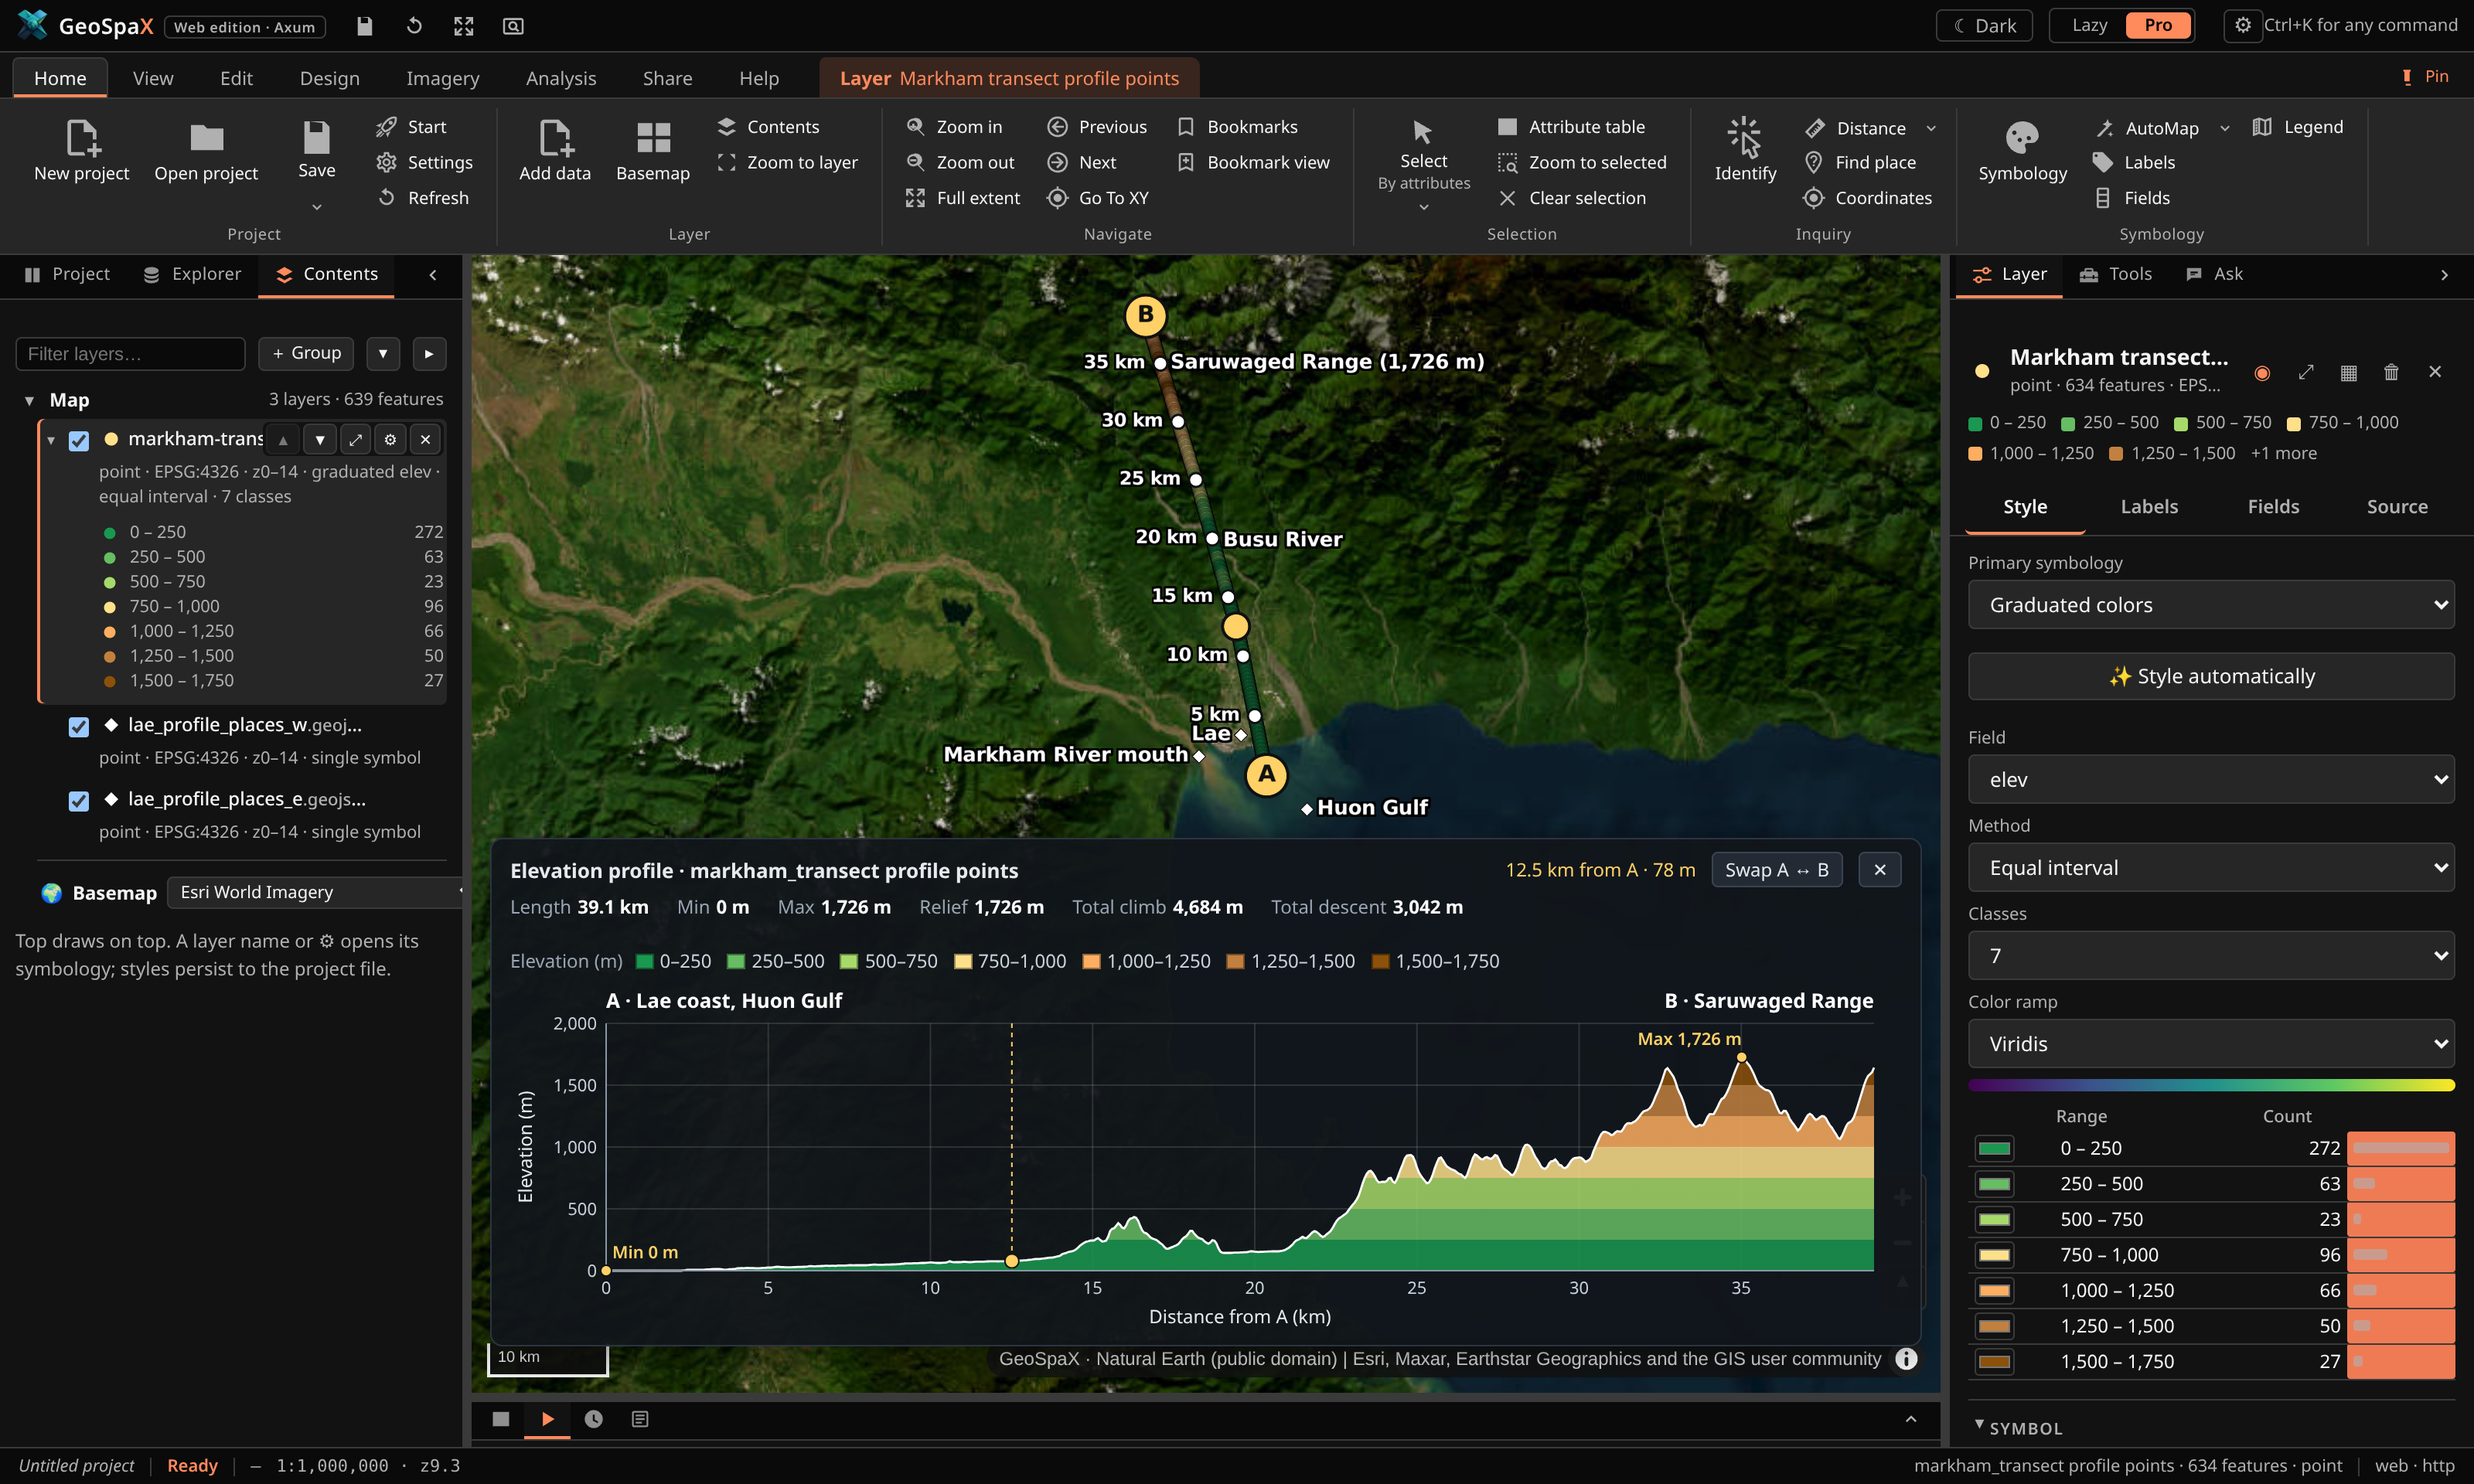
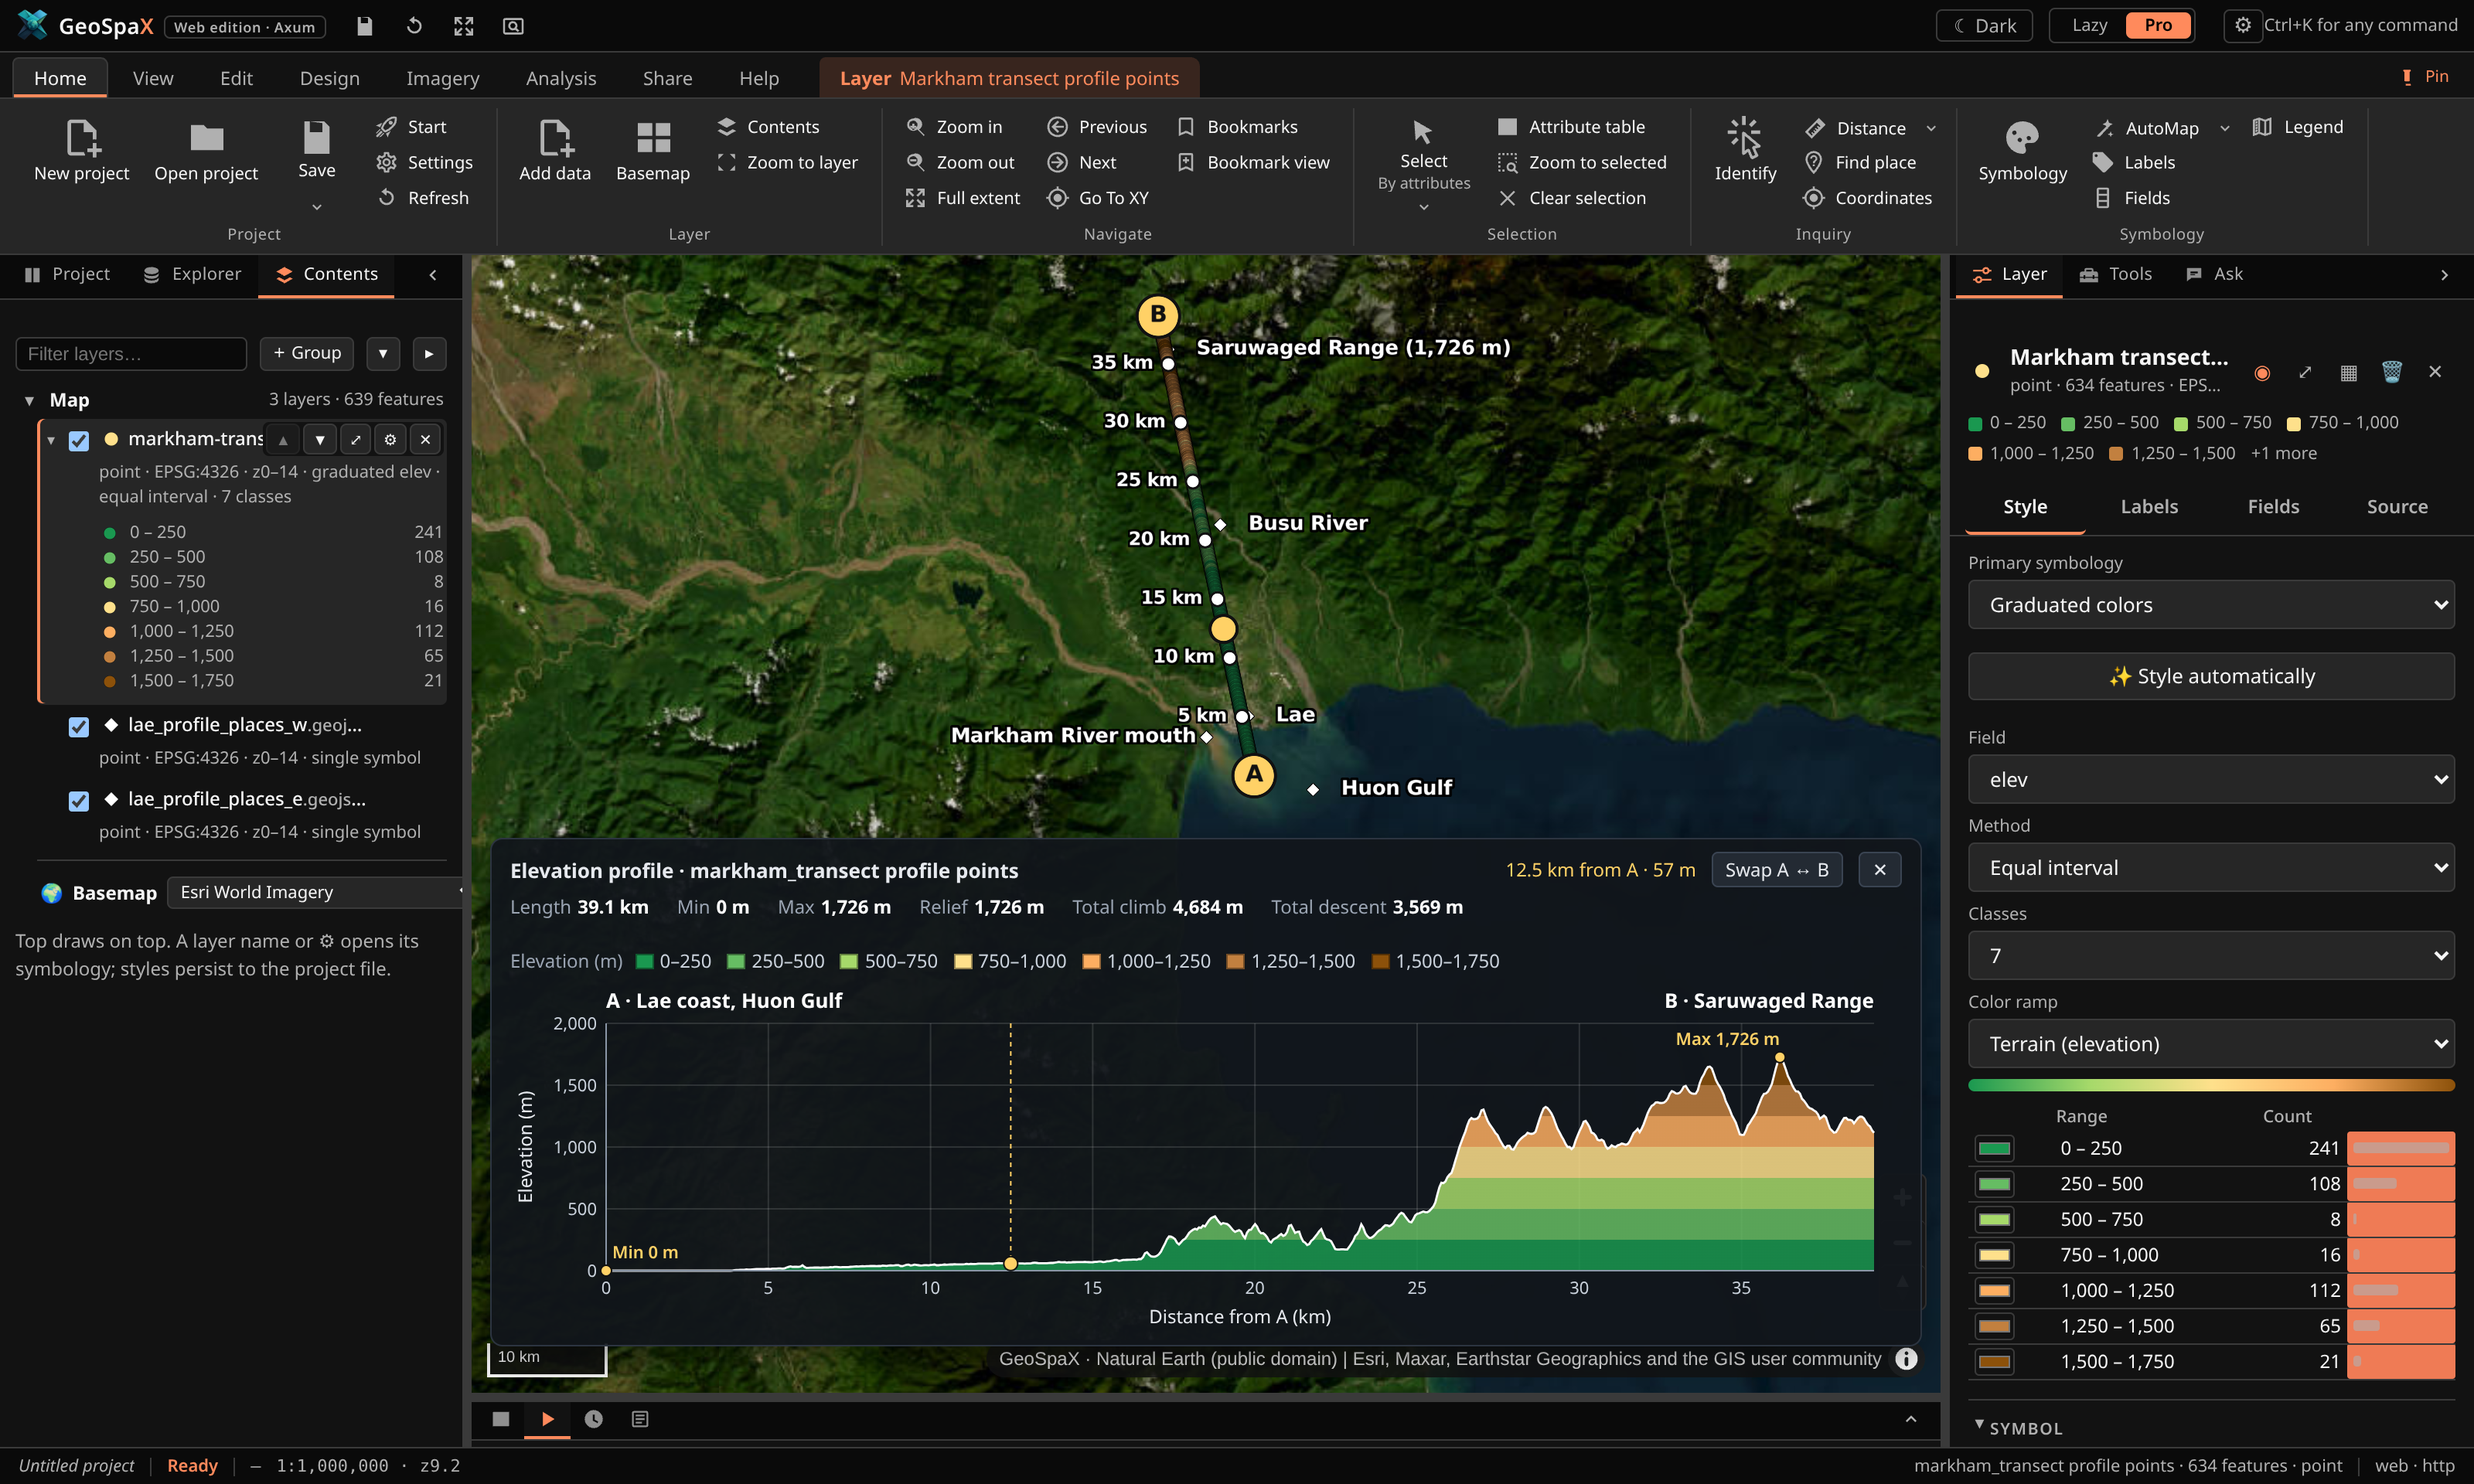
Add Terrain ramp and retake Environment screenshot so the panel matches the map (#87)
The shot spec asked for ramp 'terrain', which was not defined, so the panel fell
back to Viridis while the map drew terrain colours. Adds the ramp, commits the
missing shots-general/lib.mjs helper, fixes the Lae label collision and updates
the site copies with bumped cache tags.

diff --git a/site/index.html b/site/index.html
@@ -159,7 +159,7 @@
           <figure class="shot" tabindex="0" data-full="/img/ribbon-time.webp?v=20261030"><img loading="lazy" src="/img/ribbon-time.webp?v=20261030" alt="The time slider adding up bird records around Lae by year" /><figcaption><b>Time slider.</b> Watch 33 years of bird records build up, or play any layer with a date field by year, month or day.</figcaption></figure>
           <figure class="shot" tabindex="0" data-full="/img/tour-dem-wilhelm.webp?v=20261030"><img loading="lazy" src="/img/tour-dem-wilhelm.webp?v=20261030" alt="Copernicus DEM of Mount Wilhelm" /><figcaption><b>Elevation in seconds.</b> The 30 m DEM of Mount Wilhelm, tinted green to white.</figcaption></figure>
           <figure class="shot" tabindex="0" data-full="/img/tour-dem-3d.webp?v=20261030"><img loading="lazy" src="/img/tour-dem-3d.webp?v=20261030" alt="Mount Wilhelm DEM as 3D terrain" /><figcaption><b>…and in 3D.</b> One click raises the DEM as live terrain.</figcaption></figure>
-          <figure class="shot" tabindex="0" data-full="/img/tour-profile.webp?v=20261030"><img loading="lazy" src="/img/tour-profile.webp?v=20261030" alt="Elevation profile chart from the Lae coast to the Saruwaged Range" /><figcaption><b>Elevation profile.</b> Draw a line, get a linked distance and elevation chart. Lae coast to the Saruwaged Range: 39.1 km, 0 to 1,726 m, 4,684 m total climb.</figcaption></figure>
+          <figure class="shot" tabindex="0" data-full="/img/tour-profile.webp?v=20261030c"><img loading="lazy" src="/img/tour-profile.webp?v=20261030c" alt="Elevation profile chart from the Lae coast to the Saruwaged Range" /><figcaption><b>Elevation profile.</b> Draw a line, get a linked distance and elevation chart. Lae coast to the Saruwaged Range: 39.1 km, 0 to 1,726 m, 4,684 m total climb.</figcaption></figure>
         </div>
       </div>
     </section>

diff --git a/web/src/symbology.ts b/web/src/symbology.ts
@@ -114,6 +114,7 @@ export const RAMPS: Ramp[] = [
   { id: 'magma', name: 'Magma', type: 'sequential', colors: ['#000004', '#51127c', '#b73779', '#fc8961', '#fcfdbf'] },
   { id: 'ylorrd', name: 'Yellow-Orange-Red', type: 'sequential', colors: ['#ffffb2', '#fecc5c', '#fd8d3c', '#f03b20', '#bd0026'] },
   { id: 'blues', name: 'Blues', type: 'sequential', colors: ['#eff3ff', '#bdd7e7', '#6baed6', '#3182bd', '#08519c'] },
+  { id: 'terrain', name: 'Terrain (elevation)', type: 'sequential', colors: ['#1a9850', '#a6d96a', '#fee08b', '#fdae61', '#8c510a'] },
   { id: 'greens', name: 'Greens', type: 'sequential', colors: ['#edf8e9', '#bae4b3', '#74c476', '#31a354', '#006d2c'] },
   { id: 'rdylbu', name: 'Red-Yellow-Blue', type: 'diverging', colors: ['#d7191c', '#fdae61', '#ffffbf', '#abd9e9', '#2c7bb6'] },
   { id: 'tableau', name: 'Tableau 10', type: 'categorical', colors: ['#4e79a7', '#f28e2b', '#e15759', '#76b7b2', '#59a14f', '#edc948', '#b07aa1', '#ff9da7', '#9c755f', '#bab0ac'] },

diff --git a/site/main.js b/site/main.js
@@ -22,8 +22,8 @@ const PLUGINS = [
 const box = document.querySelector('[data-plugins]');
 if (box) {
   box.innerHTML = PLUGINS.map(([id, name, text]) => `
-    <figure class="shot plugin" tabindex="0" data-full="/img/plugin-${id}.webp?v=20261030b">
-      <img loading="lazy" src="/img/plugin-${id}.webp?v=20261030b" alt="GeoSpaX ${name} plugin" />
+    <figure class="shot plugin" tabindex="0" data-full="/img/plugin-${id}.webp?v=20261030c">
+      <img loading="lazy" src="/img/plugin-${id}.webp?v=20261030c" alt="GeoSpaX ${name} plugin" />
       <figcaption><b>${name}.</b> ${text}</figcaption>
     </figure>`).join('') + `
     <figure class="shot plugin" tabindex="0" data-full="/img/tour-landcover.webp">

diff --git a/docs/SCREENSHOTS.md b/docs/SCREENSHOTS.md
@@ -31,7 +31,7 @@ Retaken 30 October 2026 (PGT) from main, 1600x960 at 2x, dark theme, all in Pro 
 | plugin-climate.png | 462 coastal cells | 2,529 land cells, flood exposure | README, USER_GUIDE, site |
 | plugin-conservation.png | 10 km hexes, 35 of 176 | 8 km grid, 68 of 740 cells, GEBCO | README, USER_GUIDE, site |
 | plugin-disaster.png | Slope 4, relief 2, tree 1 | Slope 3, relief 2, tree 1 | README, USER_GUIDE, site |
-| plugin-environment.png | 38.9 km, 882 samples | Profile chart panel (distance vs elevation, min/max/climb), A Lae coast to B Saruwaged Range, km ticks, place labels, elevation ramp legend; 39.1 km, 0 to 1,726 m | README, USER_GUIDE, site |
+| plugin-environment.png | 39.1 km, 634 samples | Profile chart panel (distance vs elevation, min/max/climb), A Lae coast to B Saruwaged Range, km ticks, place labels, elevation ramp legend; 39.1 km, 0 to 1,726 m | README, USER_GUIDE, site |
 | plugin-forestry.png | 136 patches, 33 links | 69 patches ≥ 20 ha, core 300 m (83.7 %) | README, USER_GUIDE, site |
 | plugin-geoscience.png | Slope zones | Slope zones 41 / 23 / 36 % | README, USER_GUIDE, site |
 | plugin-hydrology.png | Streams and basins | Wet ground suitability on land cells | README, USER_GUIDE, site |
